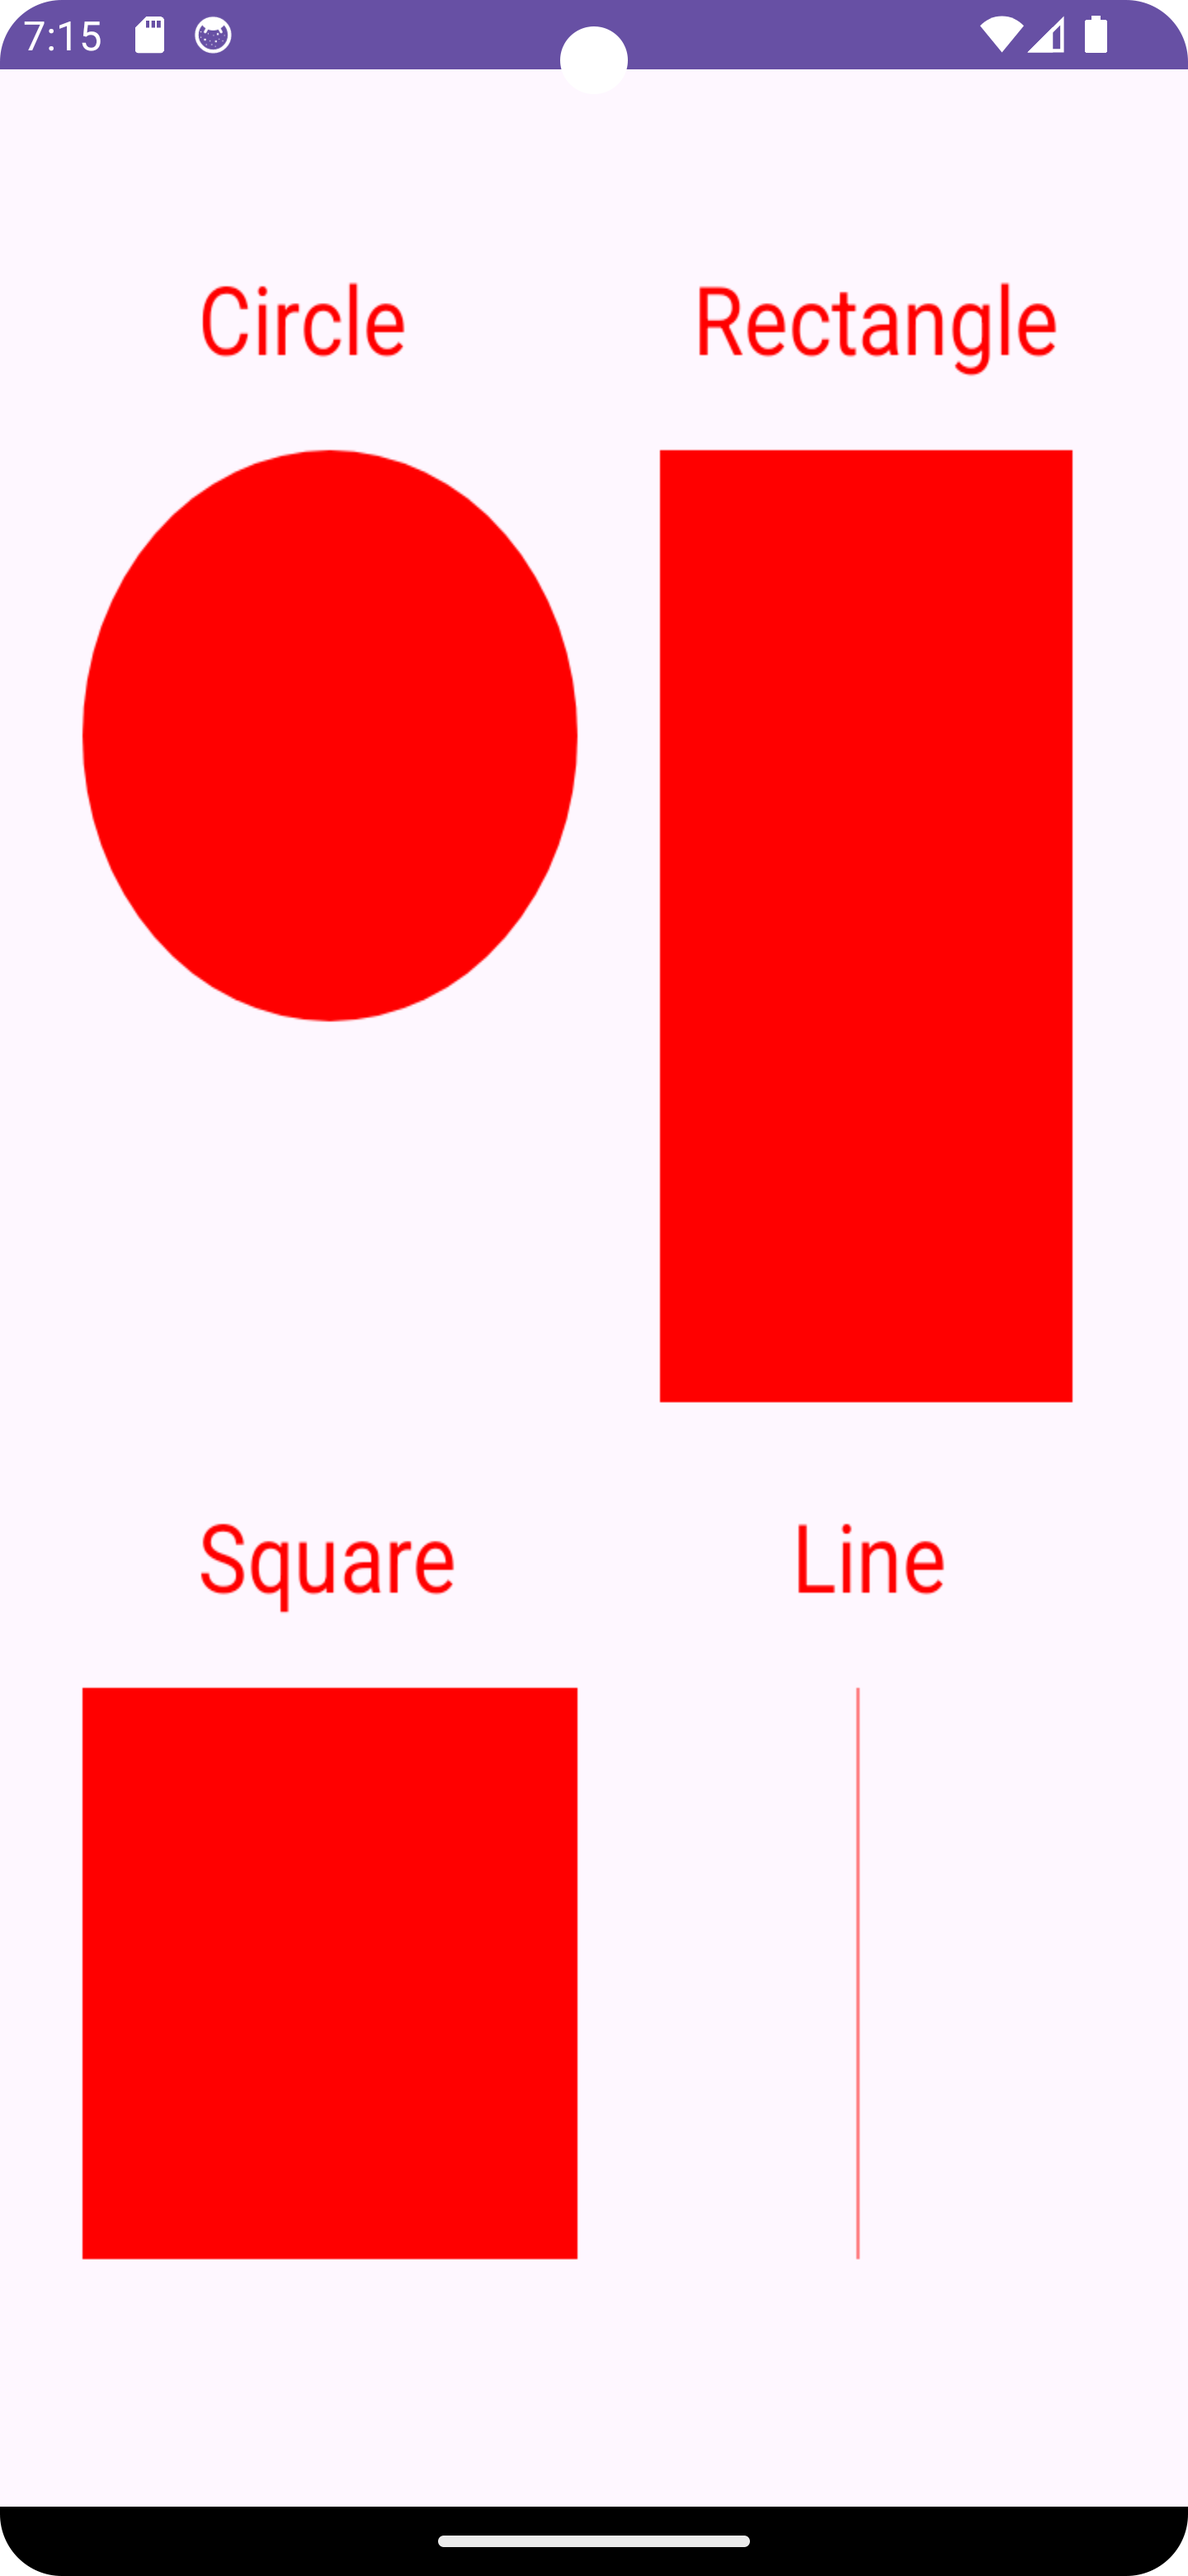
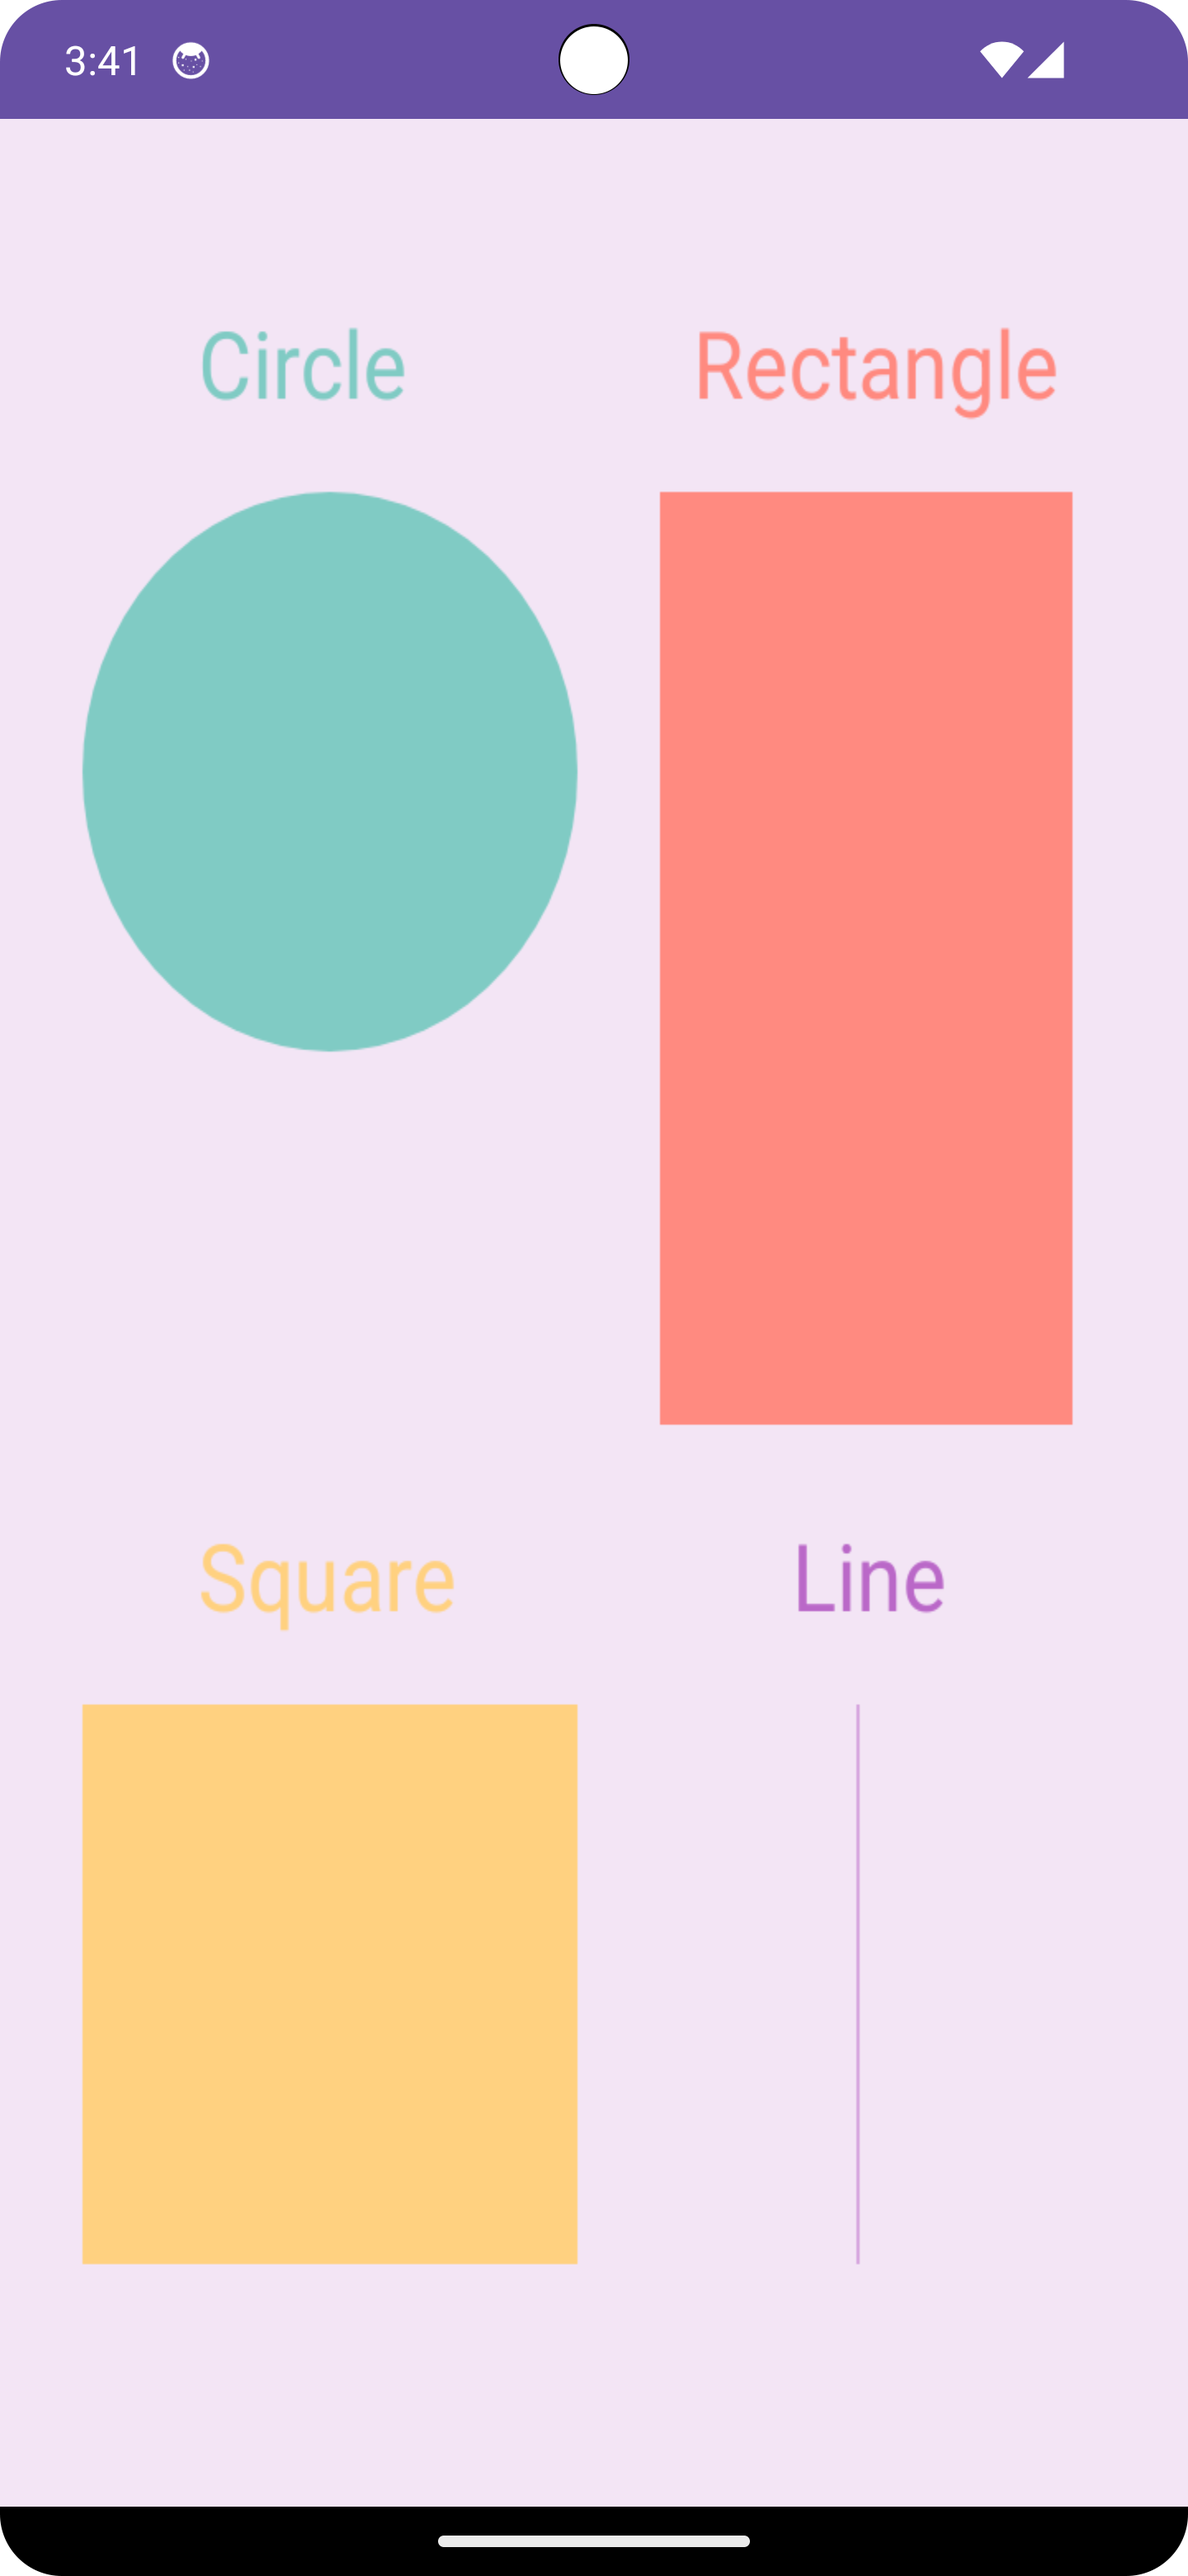
LFS

diff --git a/EXP 9 - Graphical Primitives/app/src/main/java/com/example/exno3/MainActivity.java b/EXP 9 - Graphical Primitives/app/src/main/java/com/example/exno3/MainActivity.java
@@ -1,4 +1,5 @@
 package com.example.exno3;
+
 import android.app.Activity;
 import android.graphics.Bitmap;
 import android.graphics.Canvas;
@@ -7,35 +8,54 @@ import android.graphics.Paint;
 import android.graphics.drawable.BitmapDrawable;
 import android.os.Bundle;
 import android.widget.ImageView;
-public class MainActivity extends Activity
-{
+
+public class MainActivity extends Activity {
     @Override
-    public void onCreate(Bundle savedInstanceState)
-    {
+    public void onCreate(Bundle savedInstanceState) {
         super.onCreate(savedInstanceState);
         setContentView(R.layout.activity_main);
         //Creating a Bitmap
         Bitmap bg = Bitmap.createBitmap(720, 1280, Bitmap.Config.ARGB_8888);
         //Setting the Bitmap as background for the ImageView
-        ImageView i = (ImageView) findViewById(R.id.imageView);
+        ImageView i = findViewById(R.id.imageView);
         i.setBackgroundDrawable(new BitmapDrawable(bg));
         //Creating the Canvas Object
         Canvas canvas = new Canvas(bg);
-        //Creating the Paint Object and set its color & TextSize
-        Paint paint = new Paint();
-        paint.setColor(Color.RED);
-        paint.setTextSize(50);
-        //To draw a Rectangle
-        canvas.drawText("Rectangle", 420, 150, paint);
-        canvas.drawRect(400, 200, 650, 700, paint);
-        //To draw a Circle
-        canvas.drawText("Circle", 120, 150, paint);
-        canvas.drawCircle(200, 350, 150, paint);
-        //To draw a Square
-        canvas.drawText("Square", 120, 800, paint);
-        canvas.drawRect(50, 850, 350, 1150, paint);
-        //To draw a Line
-        canvas.drawText("Line", 480, 800, paint);
-        canvas.drawLine(520, 850, 520, 1150, paint);
-    } }
 
+        // Set background color
+        canvas.drawColor(Color.parseColor("#F3E5F5")); // Light purple
+
+        //Creating the Paint Objects and set their colors & TextSize
+        Paint rectanglePaint = new Paint();
+        rectanglePaint.setColor(Color.parseColor("#FF8A80")); // Red
+        rectanglePaint.setTextSize(50);
+
+        Paint circlePaint = new Paint();
+        circlePaint.setColor(Color.parseColor("#80CBC4")); // Teal
+        circlePaint.setTextSize(50);
+
+        Paint squarePaint = new Paint();
+        squarePaint.setColor(Color.parseColor("#FFD180")); // Orange
+        squarePaint.setTextSize(50);
+
+        Paint linePaint = new Paint();
+        linePaint.setColor(Color.parseColor("#BA68C8")); // Purple
+        linePaint.setTextSize(50);
+
+        //To draw a Rectangle
+        canvas.drawText("Rectangle", 420, 150, rectanglePaint);
+        canvas.drawRect(400, 200, 650, 700, rectanglePaint);
+
+        //To draw a Circle
+        canvas.drawText("Circle", 120, 150, circlePaint);
+        canvas.drawCircle(200, 350, 150, circlePaint);
+
+        //To draw a Square
+        canvas.drawText("Square", 120, 800, squarePaint);
+        canvas.drawRect(50, 850, 350, 1150, squarePaint);
+
+        //To draw a Line
+        canvas.drawText("Line", 480, 800, linePaint);
+        canvas.drawLine(520, 850, 520, 1150, linePaint);
+    }
+}
